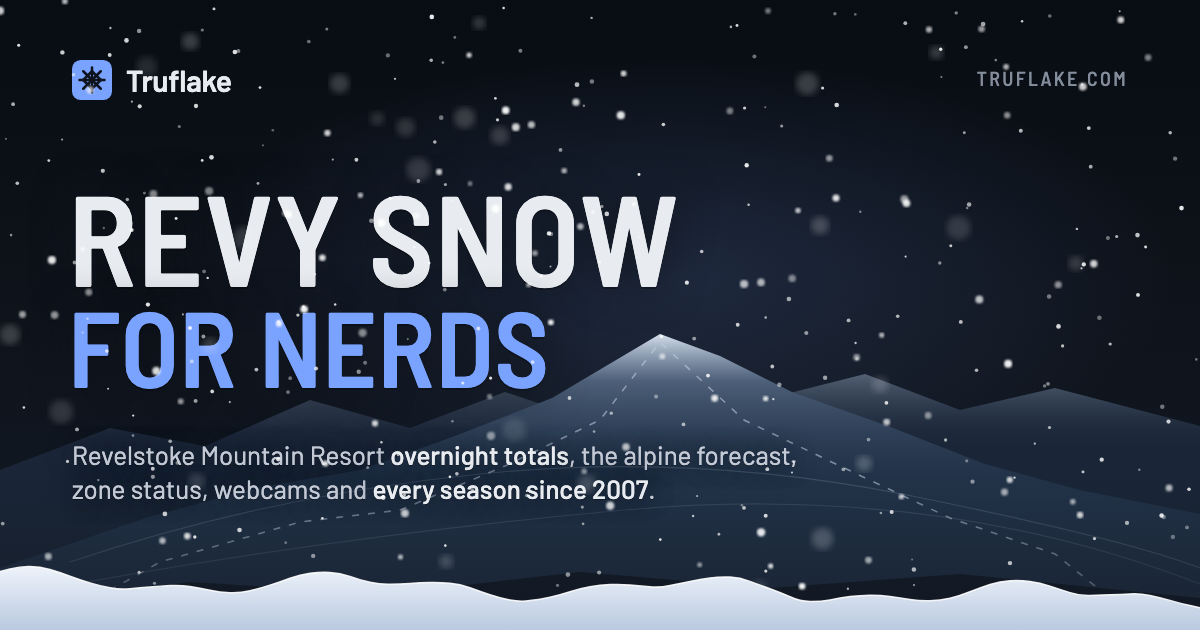
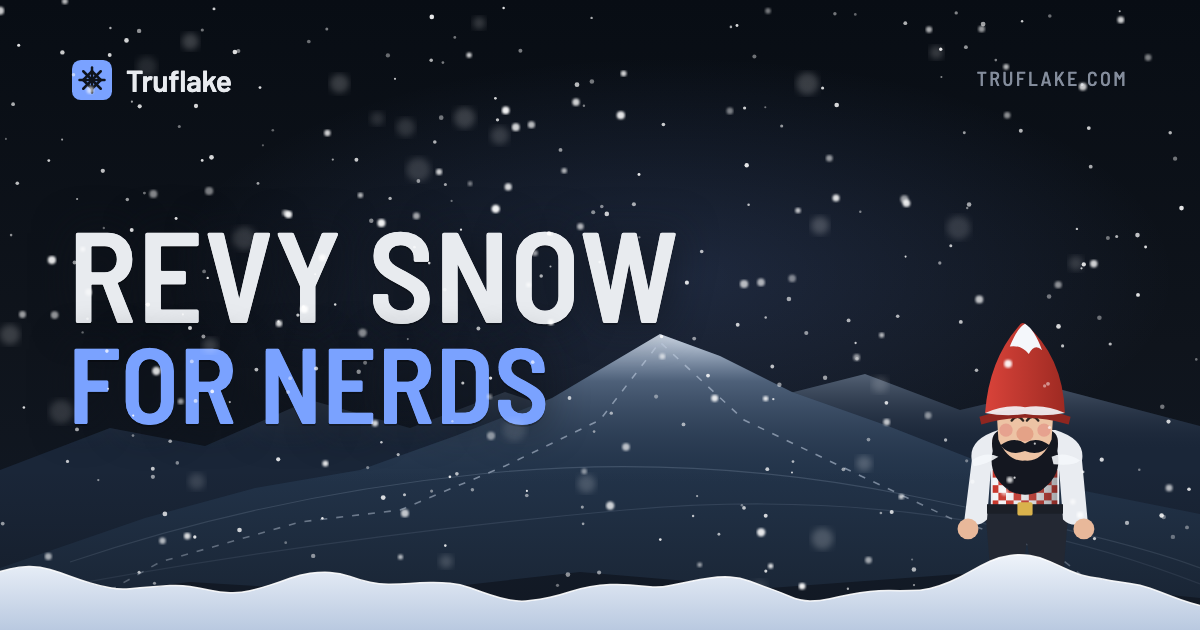
Share card: Gnorm in the drift, subtext gone

Changed region(s): [[0.0617, 0.3016, 0.6475, 0.8143], [0.6783, 0.5127, 1.0, 0.9651]]

diff --git a/design/og-card.html b/design/og-card.html
@@ -23,18 +23,12 @@
     letter-spacing: 0.12em; text-transform: uppercase; color: #848d9c;
   }
   h1 {
-    position: absolute; left: 68px; top: 178px; margin: 0;
+    position: absolute; left: 68px; top: 214px; margin: 0;
     font-family: 'Barlow Semi Condensed', sans-serif; font-weight: 600; font-size: 128px; line-height: 0.92;
     letter-spacing: 0.005em; text-transform: uppercase;
     text-shadow: 0 2px 0 rgb(0 0 0 / 0.25), 0 0 40px rgb(15 20 28 / 0.9);
   }
   h1 small { display: block; color: #7aa2ff; }
-  p {
-    position: absolute; left: 72px; top: 438px; margin: 0; width: 760px;
-    font-size: 26px; line-height: 1.3; font-weight: 400; color: #c3cad6;
-    text-shadow: 0 0 24px rgb(15 20 28 / 0.95), 0 1px 0 rgb(0 0 0 / 0.3);
-  }
-  p b { color: #e8ebef; font-weight: 500; }
 </style>
 </head>
 <body>
@@ -88,7 +82,56 @@
   <div class="domain">truflake.com</div>
 
   <h1>Revy snow<small>for nerds</small></h1>
-  <p>Revelstoke Mountain Resort <b>overnight totals</b>, the alpine forecast, zone status, webcams and <b>every season since 2007</b>.</p>
+
+
+  <!-- Gnorm the Powder Gnome, standing in the drift. Drawn 200x300, feet at y=300. -->
+  <svg class="gnorm" viewBox="0 0 200 300" width="190" height="285" style="position:absolute; left: 930px; top: 318px;" aria-hidden="true">
+    <defs>
+      <pattern id="check" width="16" height="16" patternUnits="userSpaceOnUse">
+        <rect width="16" height="16" fill="#f3f4f6"/>
+        <rect width="8" height="8" fill="#c8362b"/>
+        <rect x="8" y="8" width="8" height="8" fill="#c8362b"/>
+      </pattern>
+      <linearGradient id="hat" x1="0" y1="0" x2="1" y2="0">
+        <stop offset="0" stop-color="#d9433a"/><stop offset="1" stop-color="#9e2a22"/>
+      </linearGradient>
+      <linearGradient id="shade" x1="0" y1="0" x2="1" y2="0">
+        <stop offset="0" stop-color="#ffffff" stop-opacity="0"/><stop offset="1" stop-color="#0f141c" stop-opacity="0.35"/>
+      </linearGradient>
+    </defs>
+    <!-- Boots -->
+    <path d="M62 292 Q60 274 70 268 L92 268 L94 294 Z" fill="#1b1f27"/>
+    <path d="M108 294 L110 268 L132 268 Q142 274 140 292 Z" fill="#1b1f27"/>
+    <!-- Pants -->
+    <path d="M58 200 L146 200 L140 272 L108 272 L102 236 L96 272 L64 272 Z" fill="#232833"/>
+    <!-- Shirt and arms -->
+    <path d="M44 150 Q40 128 72 118 L132 118 Q164 128 160 150 L166 214 Q150 222 140 212 L136 160 L136 204 L64 204 L64 160 L60 212 Q50 222 36 214 Z" fill="#e9ecf1"/>
+    <!-- Hands -->
+    <circle cx="40" cy="222" r="11" fill="#e8b89a"/><circle cx="162" cy="222" r="11" fill="#e8b89a"/>
+    <!-- Checked vest -->
+    <path d="M66 126 L134 126 L134 204 L66 204 Z" fill="url(#check)"/>
+    <path d="M66 126 L134 126 L134 204 L66 204 Z" fill="url(#shade)"/>
+    <!-- Belt -->
+    <rect x="60" y="196" width="80" height="10" fill="#1b1f27"/><rect x="92" y="194" width="16" height="14" rx="2" fill="#d9b24c"/>
+    <!-- Beard -->
+    <path d="M66 140 Q62 116 80 118 L120 118 Q138 116 134 140 Q140 166 116 182 Q100 190 84 182 Q60 166 66 140 Z" fill="#141720"/>
+    <!-- Face -->
+    <path d="M70 96 Q70 70 100 68 Q130 70 130 96 L128 128 Q118 152 100 150 Q82 152 72 128 Z" fill="#edc3a4"/>
+    <!-- Cheeks, nose, closed happy eyes, moustache -->
+    <circle cx="80" cy="118" r="7" fill="#e49a8a" opacity="0.8"/><circle cx="120" cy="118" r="7" fill="#e49a8a" opacity="0.8"/>
+    <path d="M86 108 Q92 100 98 108" fill="none" stroke="#2a2420" stroke-width="2.5" stroke-linecap="round"/>
+    <path d="M102 108 Q108 100 114 108" fill="none" stroke="#2a2420" stroke-width="2.5" stroke-linecap="round"/>
+    <ellipse cx="100" cy="122" rx="9" ry="8" fill="#e4a287"/>
+    <path d="M74 134 Q88 124 100 132 Q112 124 126 134 Q116 146 100 140 Q84 146 74 134 Z" fill="#141720"/>
+    <!-- Hat -->
+    <path d="M58 100 Q62 44 94 8 Q96 4 100 6 Q140 40 142 100 Z" fill="url(#hat)"/>
+    <path d="M52 104 Q100 88 148 104 L146 112 Q100 98 54 112 Z" fill="#8f2620"/>
+    <!-- Snow on the hat and shoulders -->
+    <path d="M84 30 Q92 10 100 6 Q110 12 118 34 Q110 26 104 38 Q96 28 84 30 Z" fill="#f4f7fb"/>
+    <path d="M58 100 Q80 90 100 94 Q120 90 142 100 Q120 104 100 101 Q80 104 58 100 Z" fill="#f4f7fb" opacity="0.9"/>
+    <path d="M44 150 Q58 140 72 146 Q60 154 46 156 Z" fill="#f4f7fb" opacity="0.9"/>
+    <path d="M128 146 Q142 140 158 150 Q152 156 130 154 Z" fill="#f4f7fb" opacity="0.9"/>
+  </svg>
 
   <svg class="snow" id="snow" viewBox="0 0 1200 630" aria-hidden="true">
     <defs>
@@ -131,7 +174,7 @@
   let cols = 60, step = W / cols, pts = []
   for (let i = 0; i <= cols; i++) {
     let x = i * step
-    let base = 34 + 16 * (1 - x / W)
+    let base = 34 + 16 * (1 - x / W) + 26 * Math.exp(-(((x - 1025) / 110) ** 2))
     let y = H - (base + Math.sin(i * 0.9) * 6 + Math.sin(i * 0.37 + 1.3) * 9 + (rand() - 0.5) * 3)
     pts.push([x, y])
   }
